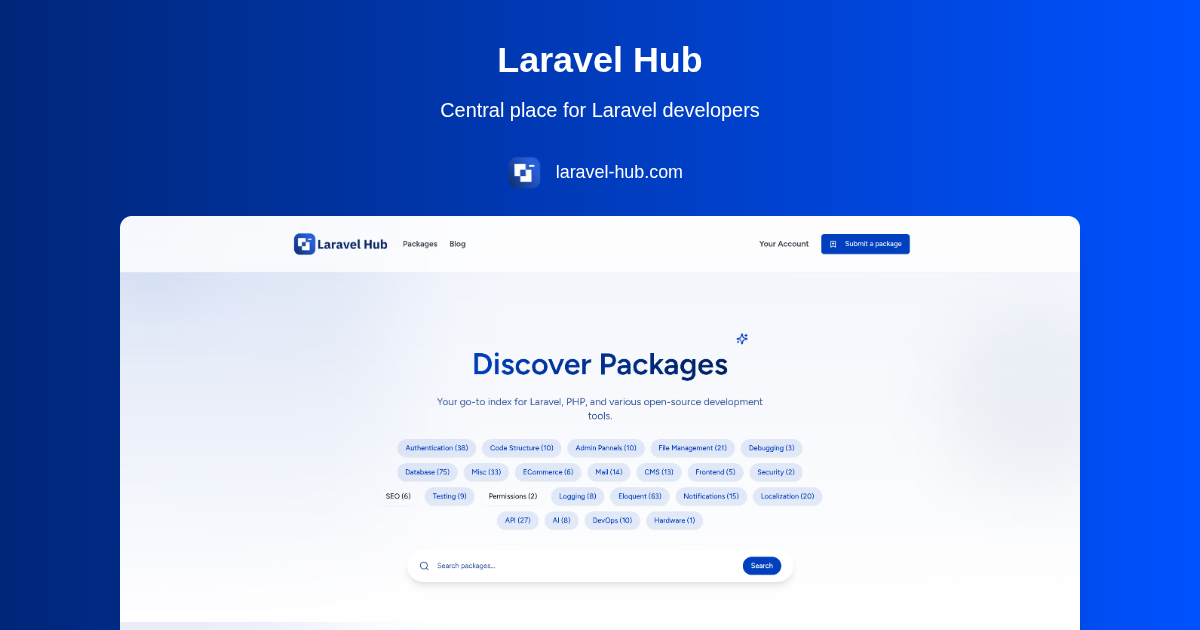
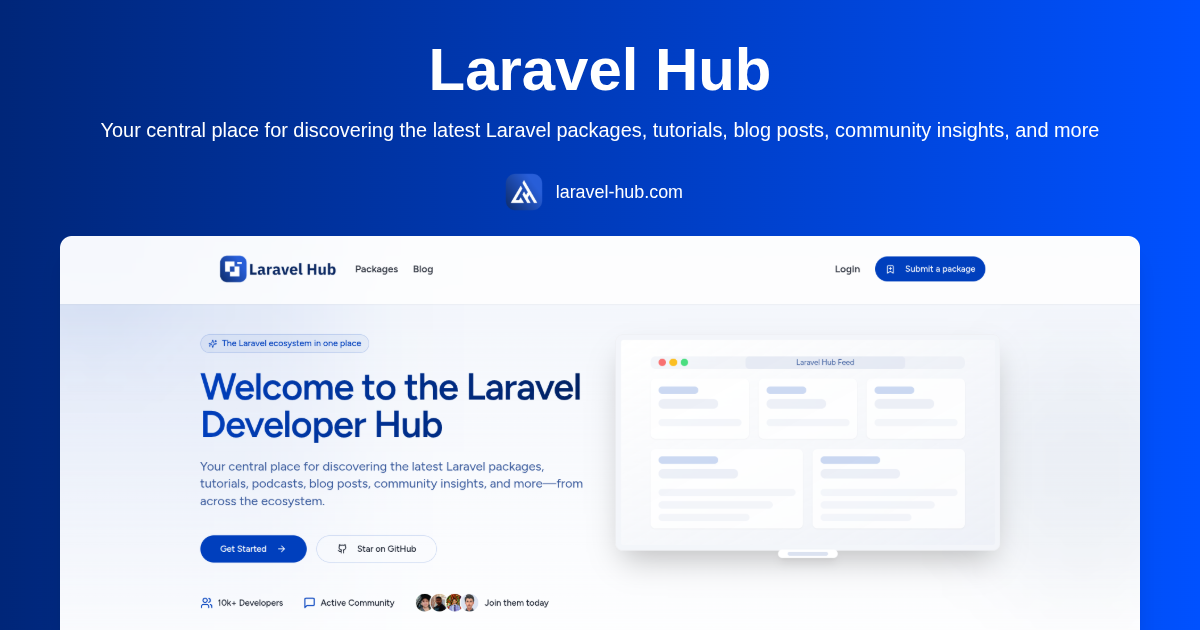
docs: Update README.md

diff --git a/README.md b/README.md
@@ -1,40 +1,43 @@
-# Laravel Hub - The Open-Source Package Index 🚀
+# Laravel Hub – The Central Community for Laravel Developers
 
-![Laravel Hub Logo](public/assets/images/Laravel-Hub-logo-cover.jpg)
+![Laravel Hub Logo](public/assets/images/og-image.png)
 
 **_"From Developers, For Developers."_**
 
-Welcome to **Laravel Hub**, an open-source platform that helps developers discover and explore packages and libraries across different programming languages and frameworks.
+[Laravel Hub](https://laravel-hub.com) is the central hub for Laravel developers — a platform that goes beyond a package directory to offer a full-featured community experience.
+
+It brings together curated blog posts, tutorials, packages, news, and multi-format community content (like videos, podcasts, and test articles), all in one place.
 
 <!-- TODO: uncomment later -->
 <!-- [![GitHub stars](https://img.shields.io/github/stars/TheLaravelHub/laravel-hub?style=social)](https://github.com/theLaravelHub/laravel-hub)
 [![GitHub forks](https://img.shields.io/github/forks/TheLaravelHub/laravel-hub?style=social)](https://github.com/theLaravelHub/laravel-hub) -->
 
-🔗 **Project Link:** [Laravel-Hub.com](https://laravel-hub.com)
+**Project Link:** [Laravel-Hub.com](https://laravel-hub.com)
 
 ---
 
-## 📚 Table of Contents
+## Table of Contents
 
-- [About Laravel Hub](#-about-laravel-hub)
-- [Getting Started](#-getting-started)
-- [Installation](#-installation)
-- [Usage](#-usage)
-- [How to Contribute](#-how-to-contribute)
-- [Security & Issues](#-security--issues)
-- [License](#-license)
-- [Community & Support](#-community--support)
-- [Show Your Support](#-show-your-support)
+- [About Laravel Hub](#about-laravel-hub)
+- [Getting Started](#getting-started)
+- [Installation](#installation)
+- [Usage](#usage)
+- [How to Contribute](#how-to-contribute)
+- [Security & Issues](#security--issues)
+- [License](#license)
+- [Community & Support](#community--support)
+- [Show Your Support](#show-your-support)
 
 ---
 
-## 📖 About Laravel Hub
+## About Laravel Hub
 
-**Laravel Hub** is an open-source project that serves as a package index for multiple programming languages and frameworks. It allows developers to:  
-✅ Discover high-quality packages.  
-✅ Search & filter libraries easily.  
-✅ Contribute by submitting new packages (Soon).  
-✅ Review and improve package listings.
+**Laravel Hub** is a modern, open-source platform and Laravel community designed to help developers:
+
+- Stay up to date with curated articles, news, videos, and podcasts  
+- Submit and showcase their own packages and posts  
+- Engage with others by commenting, replying, and following topics  
+- Bookmark posts and explore trending content
 
 Built using:
 
@@ -42,13 +45,13 @@ Built using:
 - **Inertia.js** (Bridging Laravel & React)
 - **React.js** (Frontend UI)
 - **Tailwind CSS** (Styling)
-- **TypeScript** (For maintainability)
+- **TypeScript** (Maintainable frontend)
 
-We are currently focusing on **PHP & Laravel packages**, with plans to expand to other languages in the future.
+Laravel Hub is the go-to destination for Laravel developers who want to learn, share, and grow within the ecosystem.
 
 ---
 
-## 🚀 Getting Started
+## Getting Started
 
 Follow these steps to set up **Laravel Hub** on your local machine.
 
@@ -56,7 +59,7 @@ Follow these steps to set up **Laravel Hub** on your local machine.
 
 Make sure you have the following installed:
 
-- **PHP 8.4+**
+- **PHP 8.3+**
 - **Composer**
 - **Node.js 18+ & npm**
 - **MySQL or PostgreSQL**
@@ -64,14 +67,14 @@ Make sure you have the following installed:
 
 ---
 
-## 🛠 Installation
+## Installation
 
 ### 1⃣ Clone the repository
 
 ```sh
 git clone https://github.com/theLaravelHub/laravel-hub.git
 cd laravel-hub
-```
+````
 
 ### 2⃣ Install dependencies
 
@@ -87,7 +90,7 @@ cp .env.example .env
 php artisan key:generate
 ```
 
-Configure your database settings inside .env.
+Configure your database settings in the `.env` file.
 
 ### 4⃣ Run Migrations
 
@@ -103,7 +106,7 @@ composer run dev
 
 ---
 
-## 🎯 Usage
+## Usage
 
 Once the project is running, open your browser and visit:
 
@@ -111,55 +114,75 @@ Once the project is running, open your browser and visit:
 http://localhost:8000
 ```
 
-You can start exploring packages, submitting new ones, and contributing to the project!
+You can explore packages, read blog posts, submit your own content, and participate in the Laravel community.
 
 ---
 
-## 🤝 How to Contribute
+## How to Contribute
 
-We love community contributions! To contribute:
+We welcome contributions from the Laravel community. Here's how to get started:
 
-1⃣ Fork the repository
-2⃣ Create a new branch (feature/your-feature-name)
-3⃣ Commit your changes (git commit -m "Add new feature")
-4⃣ Push your branch (git push origin feature/your-feature-name)
-5⃣ Create a Pull Request on GitHub
+1. Fork the repository
+2. Create a new branch: `feature/your-feature-name`
+3. Make your changes
+4. **Before committing or pushing**, run the following command to format your code:
 
----
+```sh
+composer run format
+```
 
-## 🔐 Security & Issues
+5. Also, make sure all tests pass by running:
 
-If you find a security vulnerability, do not open a public issue. Instead, please report it to:
+```sh
+./vendor/bin/phpunit
+```
 
-📧 [laravel-hub@gmail.com](mailto:laravel-hub@gmail.com)
+6. Push your branch:
 
-For general bugs, feel free to open an issue in the [GitHub Issues](https://github.com/theLaravelHub/laravel-hub/issues) section.
+```sh
+git push origin feature/your-feature-name
+```
 
----
+7. Open a Pull Request and describe your changes
 
-## 📜 License
-
-This project is open-source under the MIT License. Feel free to use and modify it as needed.
-
----
-
-## 💬 Community & Support
-
-Join the Laravel Hub community to stay updated:
-
-GitHub Discussions: [Join here](https://github.com/theLaravelHub/laravel-hub/discussions)
-Twitter/X: [@thelaravelhub](https://x.com/thelaravelhub)
-Email: [laravel-hub@gmail.com](mailto:laravel-hub@gmail.com)
+Thank you for helping improve Laravel Hub!
 
 ---
 
-## ⭐ Show Your Support
+## Security & Issues
 
-If you find this project useful:
+If you discover a security vulnerability, please **do not** open a public issue. Instead, contact us directly at:
 
-- Give us a ⭐ Star on GitHub!
-- Follow us on X/Twitter [@thelaravelhub](https://x.com/thelaravelhub) for updates
-- Follow the organization [@theLaravelHub](https://github.com/theLaravelHub)
-- Share **Laravel-Hub.com** with fellow developers!
+[thefeqy@gmail.com](mailto:thefeqy@gmail.com)
 
-🚀 Let's build the best open-source package index together!
+For bugs or feature requests, open an issue on [GitHub](https://github.com/theLaravelHub/laravel-hub/issues).
+
+---
+
+## License
+
+This project is open-source under the **MIT License**.
+You’re free to use, modify, and distribute it.
+
+---
+
+## Community & Support
+
+Stay connected with the Laravel Hub community:
+
+* GitHub Discussions: [Start a discussion](https://github.com/theLaravelHub/laravel-hub/discussions)
+* Twitter/X: [@thelaravelhub](https://x.com/thelaravelhub)
+* Email: [thefeqy@gmail.com](mailto:thefeqy@gmail.com)
+
+---
+
+## Show Your Support
+
+If you find Laravel Hub useful:
+
+* ⭐ Star the project on GitHub
+* 📰 Share Laravel-Hub.com with your network
+* 🧠 Follow us on [Twitter/X](https://x.com/thelaravelhub)
+* 🔍 Contribute your own packages and blog posts
+
+Together, let's grow the Laravel community.
